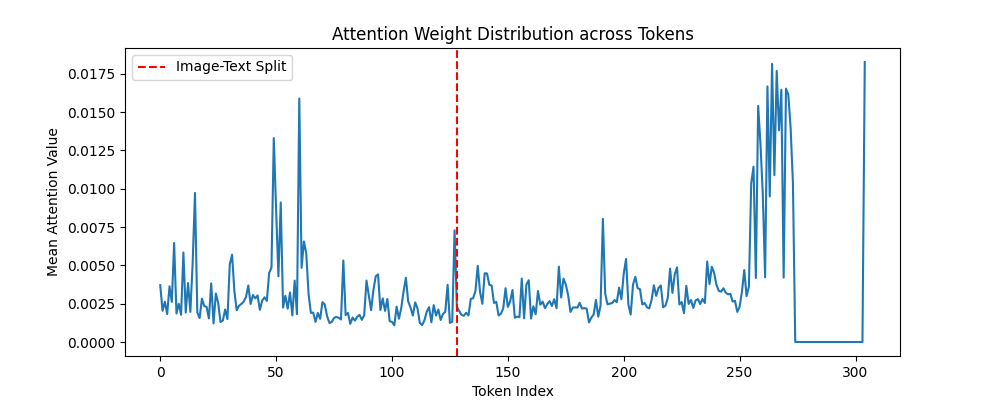
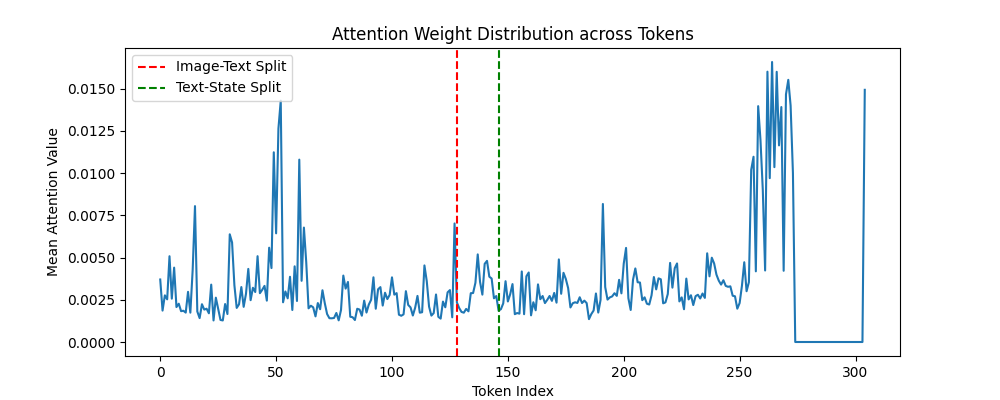
clean

diff --git a/src/lerobot/scripts/record_attention_plot_cross_stanley_analyze.py b/src/lerobot/scripts/record_attention_plot_cross_stanley_analyze.py
@@ -33,7 +33,6 @@ import matplotlib.pyplot as plt
 
 def extract_cross_attention_maps(attn_matrix, num_img_tokens):
     mean_action_attn = attn_matrix.mean(dim=0)
-
     # print("Cross K length:", mean_action_attn.shape[0])
 
     K = mean_action_attn.shape[0]
@@ -131,6 +130,16 @@ def main():
     policy.model.vlm_with_expert.attention_mode = "cross_attn"
 
     preprocessor, _ = make_smolvla_pre_post_processors(policy.config, dataset.meta.stats)
+    
+    print("\n" + "="*30)
+    print("Preprocessor 處理順序 (Pipeline Steps):")
+    for i, step in enumerate(preprocessor.steps):
+        print(f"步驟 {i+1}: {type(step).__name__}")
+        # 如果是 Tokenizer 步驟，額外印出參數
+        if "Tokenizer" in type(step).__name__:
+            print(f"   -> Max Length: {step.max_length}")
+            print(f"   -> Padding: {step.padding}")
+    print("="*30 + "\n")
 
     if hasattr(dataset.meta, 'episode_data_index'):
         start_idx = dataset.meta.episode_data_index['from'][args.episode]
@@ -253,6 +262,11 @@ def main():
             plt.figure(figsize=(10, 4))
             plt.plot(mean_attn_values)
             plt.axvline(x=2*num_img_tokens, color='r', linestyle='--', label='Image-Text Split')
+
+            text_start = 2 * num_img_tokens
+            text_end = text_start + real_text_len
+            plt.axvline(x=text_end, color='g', linestyle='--', label='Text-State Split')
+                
             plt.title("Attention Weight Distribution across Tokens")
             plt.xlabel("Token Index")
             plt.ylabel("Mean Attention Value")
@@ -261,17 +275,24 @@ def main():
             print("已儲存 Token 分佈圖至: token_distribution_debug.png")
             print("="*50 + "\n")
 
-
         num_img_tokens = policy.model.vlm_with_expert._debug_num_img_tokens
-        p_cam1, p_cam2, p_text, p_others = analyze_attention_refined(
+
+        # 1. 呼叫函式並接收字典結果
+        attn_results = analyze_attention_refined(
             attn_matrix, 
             num_img_tokens, 
-            real_text_len=int(text_token_len)  # 將這裡的 text_token_len= 改為 real_text_len=
+            real_text_len=int(text_token_len)
         )
 
-        # 印出結果診斷
-        print(f"Frame {i}: Cam1:{p_cam1:.1%} | Cam2:{p_cam2:.1%} | Text:{p_text:.1%} | Others:{p_others:.1%}")
-       
+        # 2. 修改 print 語法，從字典中提取數據
+        print(
+            f"Frame {i}: "
+            f"Vision:{attn_results['Vision']:.1%} | "
+            f"Text:{attn_results['Text']:.1%} | "
+            f"State:{attn_results['State']:.1%} | "
+            f"Padding:{attn_results['Padding']:.1%}"
+        )
+
         h1_1d, h2_1d = extract_cross_attention_maps(
             attn_matrix,
             num_img_tokens

diff --git a/src/lerobot/policies/smolvla/smolvlm_with_expert.py b/src/lerobot/policies/smolvla/smolvlm_with_expert.py
@@ -523,9 +523,10 @@ class SmolVLMWithExpertModel(nn.Module):
 
             inputs_embeds = outputs_embeds
 
-            self.hidden_per_layer.append(
-                outputs_embeds[0].detach().clone()
-            )
+            if outputs_embeds[0] is not None:
+                self.hidden_per_layer.append(
+                    outputs_embeds[0].detach().clone()
+                )
 
         # final norm
         outputs_embeds = []
